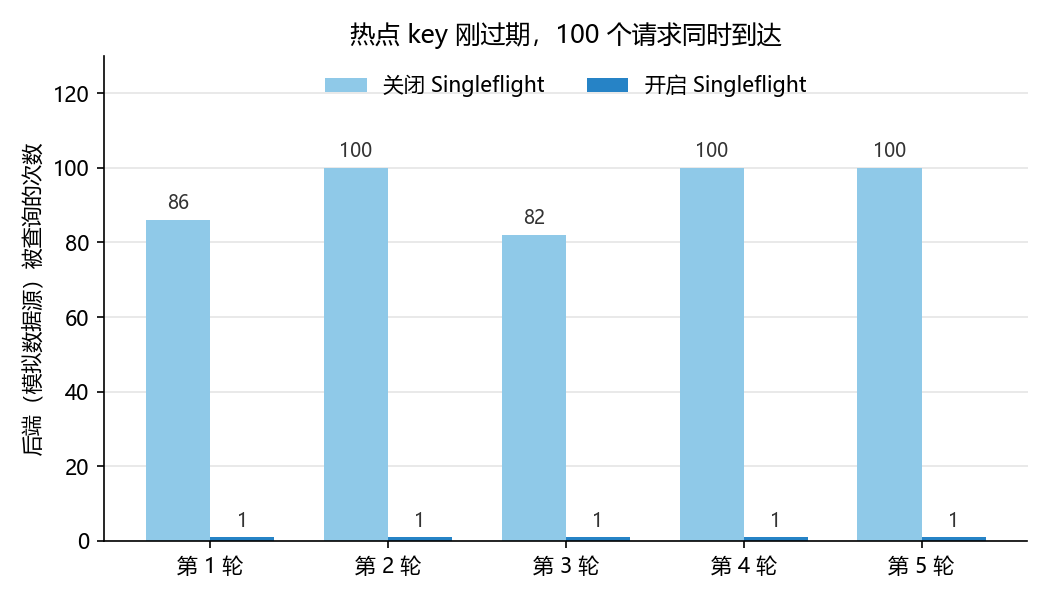
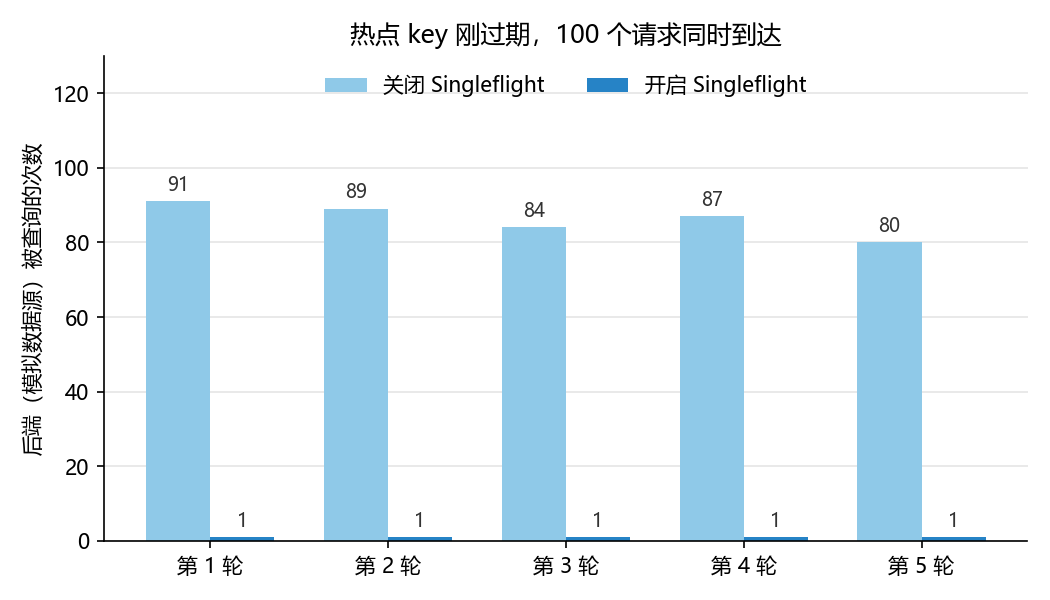
Add E11 for origin-path failures and a debug switch for the mock origin
Covers the three /query error paths end to end: backend down while many
requests wait on the same key, both cache replicas unreachable, and the
cache refill failing after a successful backend load. All experiments
were rerun, so the recorded E5 and E9 numbers changed slightly.

diff --git a/experiments/run_experiments.py b/experiments/run_experiments.py
@@ -544,8 +544,105 @@ def _stampede_round_keep(c, key):
     return m["origin_load_count"], sum(oks), sorted(lat), time.perf_counter() - t0, m
 
 
+# ---------------------------------------------------------------- E11
+def _concurrent_query(c, key, n):
+    import threading
+    barrier = threading.Barrier(n)
+    out, lock = [], threading.Lock()
+
+    def worker():
+        barrier.wait()
+        try:
+            res = call("GET", c.gateway_url + "/query?key=" + quote(key, safe=""), timeout=15)
+        except OSError as e:
+            res = {"ok": False, "error": f"CLIENT_{e.__class__.__name__}"}
+        with lock:
+            out.append(res)
+
+    ts = [threading.Thread(target=worker) for _ in range(n)]
+    t0 = time.perf_counter()
+    for t in ts:
+        t.start()
+    for t in ts:
+        t.join()
+    return out, time.perf_counter() - t0
+
+
+def e11():
+    r = Record("E11", "回源路径上的三种故障", "后端挂了、缓存节点全挂、写回缓存失败时，/query 都给出明确结果，不会卡住，也不会把故障说成“没找到”")
+    r.predict("(a) 后端挂掉时 50 个请求同时 /query 同一个 key：全部收到 ORIGIN_UNAVAILABLE，后端只被尝试 1 次，几百毫秒内全部返回；"
+              "后端恢复后下一次查询正常。(b) key 的两个缓存节点都挂掉：/query 返回 NODES_UNAVAILABLE，不去回源。"
+              "(c) 回源途中两个缓存节点挂掉：仍然把数据返回给客户端，但 cache_filled=false，refill_failed_count 加 1。")
+    with new_cluster(singleflight=True, origin_delay=ORIGIN_DELAY) as c:
+        gw = c.gateway_url
+        # (a)
+        ka = "demo:hot:3"
+        call("POST", gw + "/debug/reset", {})
+        r.step("让模拟后端挂掉", call("POST", gw + "/debug/origin", {"down": True}))
+        out, elapsed = _concurrent_query(c, ka, 50)
+        m = call("GET", gw + "/debug/metrics")
+        errs = sorted({x.get("error") for x in out})
+        r.step(f"(a) 50 个请求同时 /query {ka}：错误类型 {errs}，耗时 {elapsed * 1000:.0f} ms，后端被尝试 {m['origin_load_count']} 次，"
+               f"等待者 {m['coalesced_waiter_count']}")
+        r.step("让模拟后端恢复", call("POST", gw + "/debug/origin", {"down": False}))
+        after = call("GET", gw + "/query?key=" + quote(ka, safe=""), timeout=5)
+        r.step(f"(a) 恢复后再查 {ka}", after)
+        a_ok = (errs == ["ORIGIN_UNAVAILABLE"] and len(out) == 50 and m["origin_load_count"] == 1
+                and elapsed < 2.0 and after.get("found") and after.get("source") == "origin")
+        r.see(f"(a) 50 个请求全部是 ORIGIN_UNAVAILABLE；后端只被尝试 {m['origin_load_count']} 次；{elapsed * 1000:.0f} ms 内全部返回；"
+              f"恢复后 source={after.get('source')}")
+
+        # (b)
+        kb = "demo:hot:4"
+        x = stable_hash(kb) % 3
+        reps = [x, (x + 1) % 3]
+        call("POST", gw + "/debug/reset", {})
+        for i in reps:
+            c.stop_node(i)
+        r.step(f"(b) 停掉 {kb} 的两个副本节点 {reps}")
+        rb = call("GET", gw + "/query?key=" + quote(kb, safe=""), timeout=5)
+        mb = call("GET", gw + "/debug/metrics")
+        r.step(f"(b) /query {kb}", rb)
+        for i in reps:
+            c.start_node(i)
+        r.step("(b) 两个节点重新启动")
+        b_ok = rb.get("error") == "NODES_UNAVAILABLE" and mb["origin_load_count"] == 0
+        r.see(f"(b) 返回 {rb.get('error')}，后端被查 {mb['origin_load_count']} 次")
+
+        # (c)
+        kc = "demo:hot:5"
+        x = stable_hash(kc) % 3
+        reps = [x, (x + 1) % 3]
+        call("POST", gw + "/debug/reset", {})
+        call("POST", gw + "/debug/origin", {"delay": 2.0})
+        r.step("(c) 把模拟后端调慢到 2 秒，方便在回源途中注入故障")
+        import threading
+        holder = {}
+        th = threading.Thread(target=lambda: holder.update(res=call("GET", gw + "/query?key=" + quote(kc, safe=""), timeout=10)))
+        th.start()
+        time.sleep(0.8)
+        for i in reps:
+            c.stop_node(i)
+        r.step(f"(c) /query {kc} 已经在回源，这时停掉它的两个副本节点 {reps}")
+        th.join()
+        rc = holder.get("res", {})
+        mc = call("GET", gw + "/debug/metrics")
+        r.step(f"(c) /query {kc} 的返回", rc)
+        call("POST", gw + "/debug/origin", {"delay": ORIGIN_DELAY})
+        c_ok = (rc.get("ok") and rc.get("found") and rc.get("source") == "origin"
+                and rc.get("cache_filled") is False and mc["refill_failed_count"] == 1)
+        r.see(f"(c) 客户端拿到 value={rc.get('value')}，cache_filled={rc.get('cache_filled')}，refill_failed_count={mc['refill_failed_count']}")
+
+    r.done(a_ok and b_ok and c_ok,
+           "(a) 后端挂了也只尝试一次，错误被同一个 key 的所有等待者共享，不会出现 50 个请求同时去敲一个已经挂掉的后端；"
+           "失败后状态被清理，后端一恢复就能正常回源。(b) 缓存节点连不上时，入口不知道缓存里到底有没有，"
+           "所以直接报 NODES_UNAVAILABLE，不当成未命中去回源，否则节点一抖动就会把后端打满。"
+           "(c) 后端已经查到了，数据照样返回给客户端，但如实告诉它“没写进缓存”，下一次还会回源。")
+    return r
+
+
 EXPERIMENTS = {"E1": e1, "E1b": e1b, "E2": e2, "E3": e3, "E4": e4, "E5": e5, "E6": e6, "E7": e7, "E8": e8,
-               "E9": e9, "E10": e10}
+               "E9": e9, "E10": e10, "E11": e11}
 
 
 def main():

diff --git a/kvcache/gateway.py b/kvcache/gateway.py
@@ -7,6 +7,7 @@
   GET  /stats
   GET  /debug/metrics                         ->  回源次数、命中次数等计数（实验用）
   POST /debug/reset                           ->  计数清零（实验用）
+  POST /debug/origin  {"down", "delay"}       ->  让模拟后端故障或变慢（实验用）
 
 启动：python -m kvcache.gateway --port 8000 --nodes 127.0.0.1:8001,127.0.0.1:8002,127.0.0.1:8003
 """
@@ -236,6 +237,13 @@ class Gateway:
         if method == "POST" and path == "/debug/reset":
             self.reset_metrics()
             return 200, {"ok": True}
+        if method == "POST" and path == "/debug/origin":
+            body = body or {}
+            if "down" in body:
+                self.origin.down = bool(body["down"])
+            if "delay" in body:
+                self.origin.delay = float(body["delay"])
+            return 200, {"ok": True, "down": self.origin.down, "delay_ms": int(self.origin.delay * 1000)}
         return 404, {"ok": False, "error": "NOT_FOUND"}
 
 

diff --git a/kvcache/stampede.py b/kvcache/stampede.py
@@ -21,6 +21,7 @@ class MockOrigin:
     def __init__(self, delay=0.15, fail_keys=()):
         self.delay = delay
         self.fail_keys = set(fail_keys)
+        self.down = False  # 实验用：模拟整个后端挂掉
         self.load_count = 0
         self._lock = threading.Lock()
         self.data = {f"demo:hot:{i}": f"demo-result-{i}" for i in range(1, 11)}
@@ -29,7 +30,7 @@ class MockOrigin:
         with self._lock:
             self.load_count += 1
         time.sleep(self.delay)
-        if key in self.fail_keys:
+        if self.down or key in self.fail_keys:
             raise OriginUnavailable(key)
         return self.data.get(key)  # None 表示后端也没有
 

diff --git a/experiments/results/experiment_log.md b/experiments/results/experiment_log.md
@@ -1,6 +1,6 @@
 # 故障注入实验记录
 
-运行时间：2026-11-22 01:01　　运行环境：单机，3 个节点进程 + 1 个入口进程
+运行时间：2026-11-22 01:38　　运行环境：单机，3 个节点进程 + 1 个入口进程
 
 | 实验 | 内容 | 对照预测 |
 |---|---|---|
@@ -15,6 +15,7 @@
 | E8 | 系统时间突然倒退一分钟 | 符合 |
 | E9 | 热点 key 过期后 100 个请求同时到达（缓存击穿） | 符合 |
 | E10 | 回填后在 TTL 内再次访问（缓存命中） | 符合 |
+| E11 | 回源路径上的三种故障 | 符合 |
 
 ## E1 一个副本突然宕机
 
@@ -151,8 +152,8 @@
 
 **实际结果：**
 
-- 均匀访问：节点 0/1/2 = 1046/1011/943，平均延迟 19.72 ms，P95 36.75 ms
-- 热点访问：节点 0/1/2 = 1990/542/468，平均延迟 23.32 ms，P95 42.19 ms
+- 均匀访问：节点 0/1/2 = 1046/1011/943，平均延迟 15.55 ms，P95 34.07 ms
+- 热点访问：节点 0/1/2 = 1990/542/468，平均延迟 20.01 ms，P95 42.29 ms
 - 节点 0 承担的读请求占比：35% → 66%
 
 **对照：** 符合预测
@@ -232,21 +233,21 @@
 
 **操作与返回：**
 
-1. [关闭 Singleflight] 第 1 轮：回源 86 次，成功 100/100，等待者 0，平均 272.9 ms，P95 337.4 ms
-2. [关闭 Singleflight] 第 2 轮：回源 100 次，成功 100/100，等待者 0，平均 255.8 ms，P95 317.3 ms
-3. [关闭 Singleflight] 第 3 轮：回源 82 次，成功 100/100，等待者 0，平均 252.3 ms，P95 318.8 ms
-4. [关闭 Singleflight] 第 4 轮：回源 100 次，成功 100/100，等待者 0，平均 250.8 ms，P95 310.0 ms
-5. [关闭 Singleflight] 第 5 轮：回源 100 次，成功 100/100，等待者 0，平均 259.3 ms，P95 319.5 ms
-6. [开启 Singleflight] 第 1 轮：回源 1 次，成功 100/100，等待者 99，平均 232.8 ms，P95 244.3 ms
-7. [开启 Singleflight] 第 2 轮：回源 1 次，成功 100/100，等待者 99，平均 214.9 ms，P95 227.2 ms
-8. [开启 Singleflight] 第 3 轮：回源 1 次，成功 100/100，等待者 99，平均 220.7 ms，P95 231.0 ms
-9. [开启 Singleflight] 第 4 轮：回源 1 次，成功 100/100，等待者 99，平均 222.3 ms，P95 236.6 ms
-10. [开启 Singleflight] 第 5 轮：回源 1 次，成功 100/100，等待者 99，平均 236.7 ms，P95 257.3 ms
+1. [关闭 Singleflight] 第 1 轮：回源 91 次，成功 100/100，等待者 0，平均 290.3 ms，P95 405.9 ms
+2. [关闭 Singleflight] 第 2 轮：回源 89 次，成功 100/100，等待者 0，平均 285.6 ms，P95 349.9 ms
+3. [关闭 Singleflight] 第 3 轮：回源 84 次，成功 100/100，等待者 0，平均 251.9 ms，P95 328.1 ms
+4. [关闭 Singleflight] 第 4 轮：回源 87 次，成功 100/100，等待者 0，平均 257.2 ms，P95 335.0 ms
+5. [关闭 Singleflight] 第 5 轮：回源 80 次，成功 100/100，等待者 0，平均 284.2 ms，P95 358.0 ms
+6. [开启 Singleflight] 第 1 轮：回源 1 次，成功 100/100，等待者 84，平均 205.3 ms，P95 221.5 ms
+7. [开启 Singleflight] 第 2 轮：回源 1 次，成功 100/100，等待者 77，平均 195.4 ms，P95 217.0 ms
+8. [开启 Singleflight] 第 3 轮：回源 1 次，成功 100/100，等待者 94，平均 206.2 ms，P95 225.7 ms
+9. [开启 Singleflight] 第 4 轮：回源 1 次，成功 100/100，等待者 99，平均 247.3 ms，P95 269.0 ms
+10. [开启 Singleflight] 第 5 轮：回源 1 次，成功 100/100，等待者 99，平均 213.2 ms，P95 226.3 ms
 
 **实际结果：**
 
-- 关闭：每轮回源 [86, 100, 82, 100, 100]，平均 93.6 次；成功 500/500；平均延迟 258 ms，P95 321 ms
-- 开启：每轮回源 [1, 1, 1, 1, 1]，平均 1.0 次；成功 500/500；平均延迟 225 ms，P95 239 ms
+- 关闭：每轮回源 [91, 89, 84, 87, 80]，平均 86.2 次；成功 500/500；平均延迟 274 ms，P95 355 ms
+- 开启：每轮回源 [1, 1, 1, 1, 1]，平均 1.0 次；成功 500/500；平均延迟 213 ms，P95 232 ms
 
 **对照：** 符合预测
 
@@ -273,3 +274,32 @@
 **对照：** 符合预测
 
 **解释：** 回源后会用原来的 /set 流程写回两个副本，所以 TTL 内的请求都从缓存拿。回填的 TTL 是 3 秒，过期后第一个请求会重新回源，这正是 E9 里要防的那个时刻。
+
+## E11 回源路径上的三种故障
+
+**相关保证：** 后端挂了、缓存节点全挂、写回缓存失败时，/query 都给出明确结果，不会卡住，也不会把故障说成“没找到”
+
+**实验前预测：** (a) 后端挂掉时 50 个请求同时 /query 同一个 key：全部收到 ORIGIN_UNAVAILABLE，后端只被尝试 1 次，几百毫秒内全部返回；后端恢复后下一次查询正常。(b) key 的两个缓存节点都挂掉：/query 返回 NODES_UNAVAILABLE，不去回源。(c) 回源途中两个缓存节点挂掉：仍然把数据返回给客户端，但 cache_filled=false，refill_failed_count 加 1。
+
+**操作与返回：**
+
+1. `让模拟后端挂掉 -> {"ok": true, "down": true, "delay_ms": 150}`
+2. (a) 50 个请求同时 /query demo:hot:3：错误类型 ['ORIGIN_UNAVAILABLE']，耗时 264 ms，后端被尝试 1 次，等待者 49
+3. `让模拟后端恢复 -> {"ok": true, "down": false, "delay_ms": 150}`
+4. `(a) 恢复后再查 demo:hot:3 -> {"ok": true, "found": true, "value": "demo-result-3", "source": "origin", "cache_filled": true}`
+5. (b) 停掉 demo:hot:4 的两个副本节点 [2, 0]
+6. `(b) /query demo:hot:4 -> {"ok": false, "error": "NODES_UNAVAILABLE", "unreachable": [2, 0], "replicas": [2, 0]}`
+7. (b) 两个节点重新启动
+8. (c) 把模拟后端调慢到 2 秒，方便在回源途中注入故障
+9. (c) /query demo:hot:5 已经在回源，这时停掉它的两个副本节点 [1, 2]
+10. `(c) /query demo:hot:5 的返回 -> {"ok": true, "found": true, "value": "demo-result-5", "source": "origin", "cache_filled": false}`
+
+**实际结果：**
+
+- (a) 50 个请求全部是 ORIGIN_UNAVAILABLE；后端只被尝试 1 次；264 ms 内全部返回；恢复后 source=origin
+- (b) 返回 NODES_UNAVAILABLE，后端被查 0 次
+- (c) 客户端拿到 value=demo-result-5，cache_filled=False，refill_failed_count=1
+
+**对照：** 符合预测
+
+**解释：** (a) 后端挂了也只尝试一次，错误被同一个 key 的所有等待者共享，不会出现 50 个请求同时去敲一个已经挂掉的后端；失败后状态被清理，后端一恢复就能正常回源。(b) 缓存节点连不上时，入口不知道缓存里到底有没有，所以直接报 NODES_UNAVAILABLE，不当成未命中去回源，否则节点一抖动就会把后端打满。(c) 后端已经查到了，数据照样返回给客户端，但如实告诉它“没写进缓存”，下一次还会回源。

diff --git a/README.md b/README.md
@@ -58,7 +58,7 @@ python -m unittest discover -s tests -v
 **5. 跑故障注入实验**（会自己启动和关闭集群，用 18000 段端口，不影响第 1 步）
 
 ```
-python experiments/run_experiments.py          # 全部，大约 2 分钟
+python experiments/run_experiments.py          # 全部，大约 3 分钟
 python experiments/run_experiments.py E9 E10   # 只跑指定的
 ```
 
@@ -90,6 +90,7 @@ experiments/    故障注入实验和结果
 | `GET /stats` | 各节点的条目数、淘汰数、过期数 |
 | `GET /debug/metrics` | 回源次数、命中次数、合并的等待者数（实验用） |
 | `POST /debug/reset` | 计数清零（实验用） |
+| `POST /debug/origin` | `{"down": true}` 让模拟后端出错、`{"delay": 2.0}` 让它变慢（实验用） |
 
 原来的 `/get` 没有改动，所以之前的实验和测试都不受影响。
 
@@ -118,6 +119,15 @@ experiments/    故障注入实验和结果
 2. 没命中时，同一个 key 只让第一个请求去回源，其他请求等它的结果。
 3. 回源拿到数据后，用原来的 `/set` 流程写回两个副本（TTL 3 秒），再把结果交给所有等待者。
 4. 回源失败或超时，所有等待者都会收到同样的错误，不会一直挂着；不同 key 之间互不阻塞。
+
+**出错时的返回：**
+
+| 情况 | `/query` 的返回 |
+|---|---|
+| 这个 key 的两个缓存节点都连不上 | `NODES_UNAVAILABLE`，**不去回源**：节点一抖动就去查后端，等于把后端暴露给击穿 |
+| 后端出错 | `ORIGIN_UNAVAILABLE`，同一个 key 的等待者共享这个错误，后端只被尝试一次 |
+| 等别人回源超过 5 秒 | `ORIGIN_TIMEOUT` |
+| 后端取到了，但写回缓存失败 | 数据照样返回，`cache_filled: false`，下次还会回源 |
 
 模拟数据源写在入口进程里（`stampede.py` 的 `MockOrigin`），每次查询固定延迟 150 ms，只认 `demo:hot:1` 到 `demo:hot:10`
 这些预置 key。不把用户 `/set` 的数据当成后端数据，是为了避免缓存被淘汰后回源拿到和用户最后写入不一致的旧内容。
@@ -149,8 +159,9 @@ experiments/    故障注入实验和结果
 | E6 | TTL 到期 | 到期前能读，到期后读不到 |
 | E7 | LRU 淘汰 | 容量 3 时，最久没用的那条被删掉 |
 | E8 | 时钟倒退 60 秒 | 版本比较不受影响；过期数据"复活" |
-| E9 | 热点 key 过期后 100 个请求同时到达 | 关闭 Singleflight 每轮回源 82～100 次；开启后每轮只回源 1 次，两种情况 100 个请求都成功 |
+| E9 | 热点 key 过期后 100 个请求同时到达 | 关闭 Singleflight 每轮回源 80～91 次；开启后每轮只回源 1 次，两种情况 100 个请求都成功 |
 | E10 | 回填后 TTL 内再次访问 | 100 个请求全部命中缓存，不再回源；过期后再查才重新回源 |
+| E11 | 回源路径上的三种故障 | 后端挂了：50 个请求都收到 ORIGIN_UNAVAILABLE，后端只被尝试 1 次；缓存节点全挂：报错且不回源；回源途中缓存节点挂了：数据照样返回，`cache_filled=false` |
 
 E9 每种情况各跑 5 轮，每轮前都先让 key 过期。具体数字以 `experiments/results/experiment_log.md` 和 `E9_stampede.csv` 为准，每次运行会略有不同。
 
